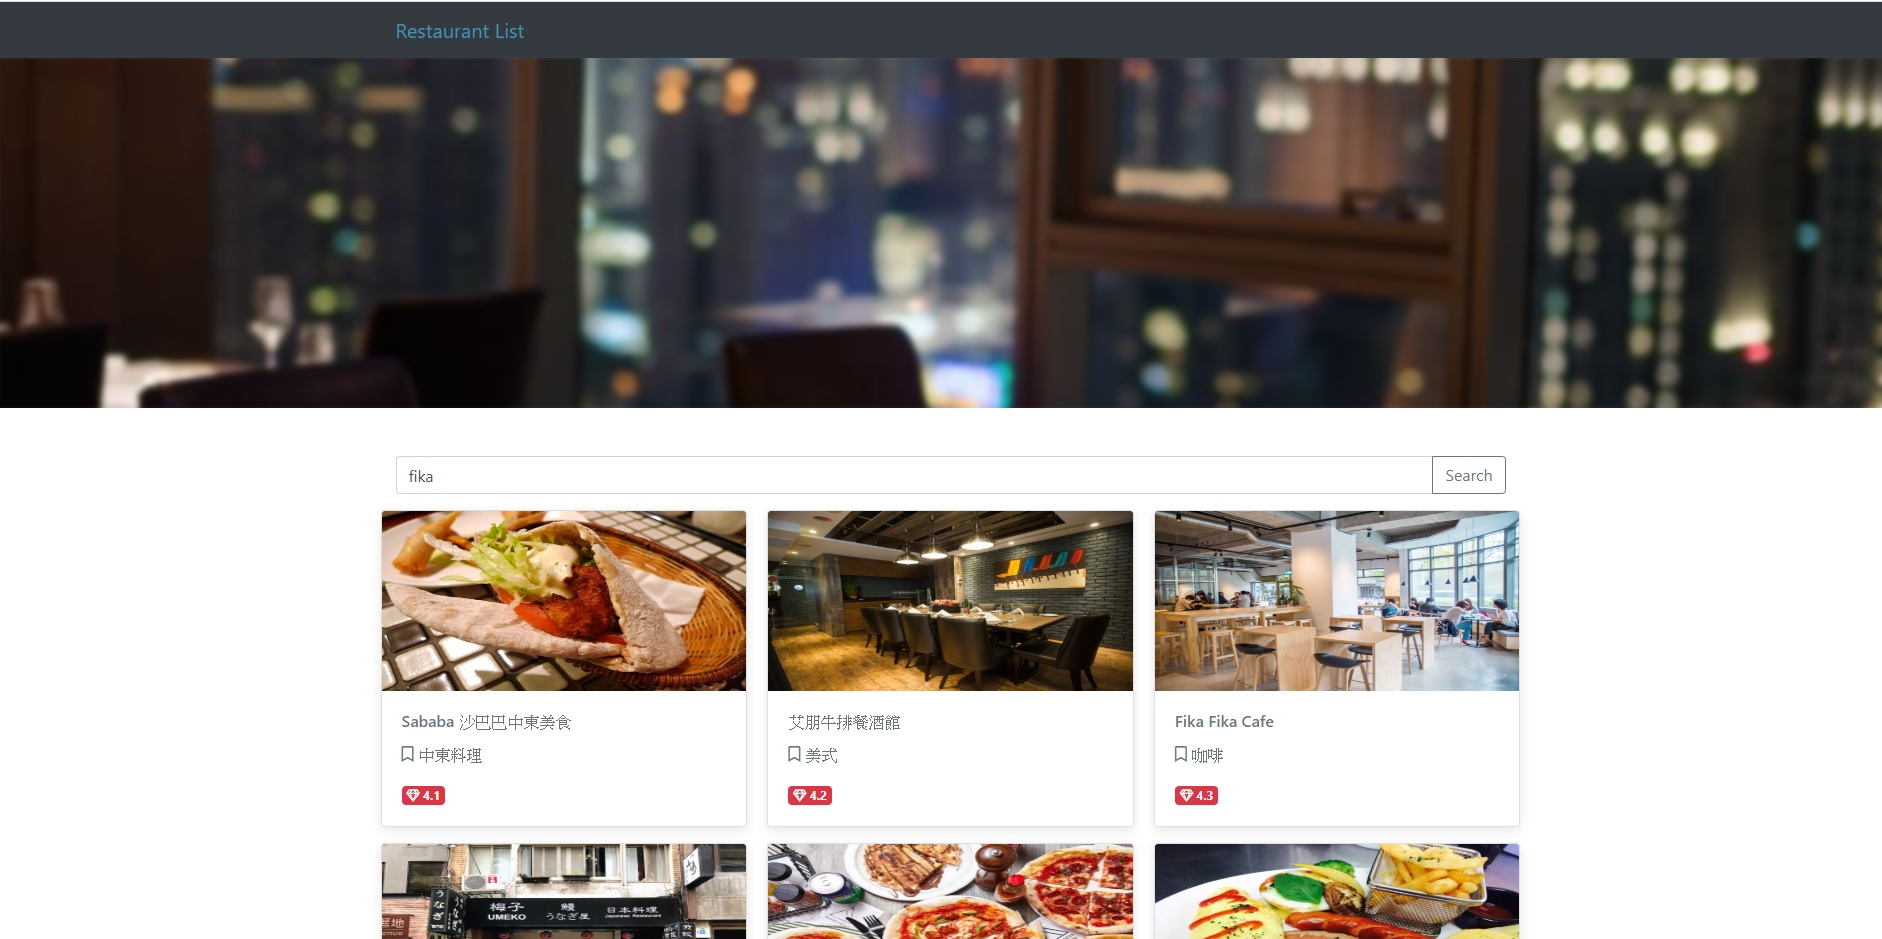
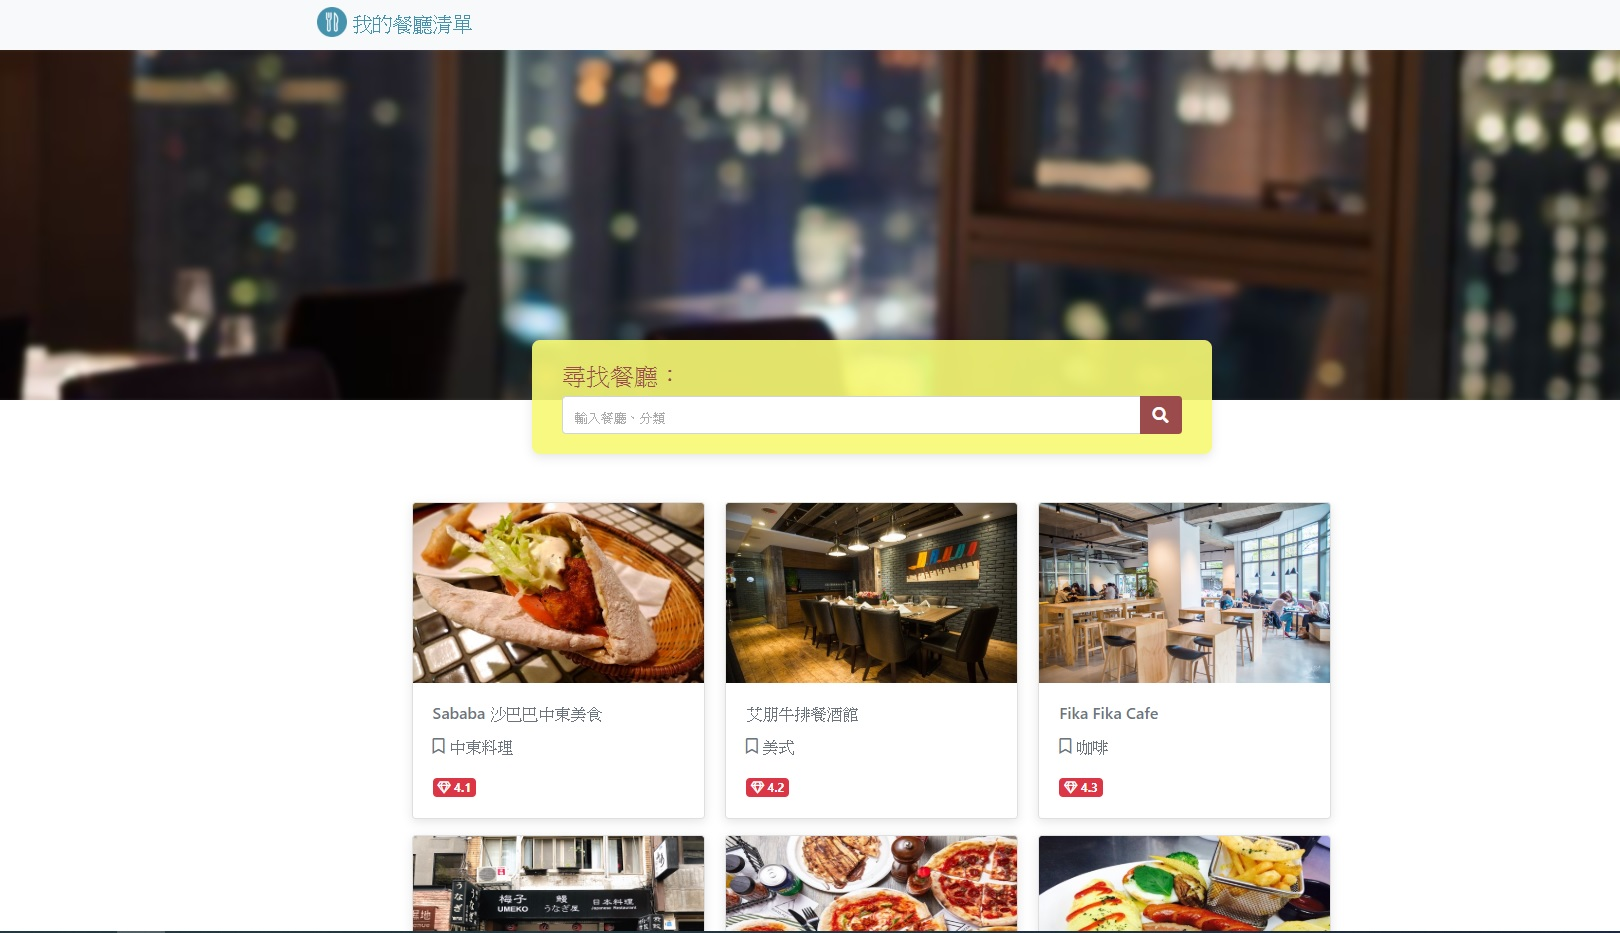
update file

diff --git a/public/stylesheets/style.css b/public/stylesheets/style.css
@@ -23,7 +23,7 @@ header {
 .search-bar .search-bar-outer {
   margin: 0 auto;
   max-width: 680px;
-  background-color: #fce2cf;
+  background-color: #f6f873e8;
   border-radius: 8px;
   padding: 20px 30px;
   border: 0;
